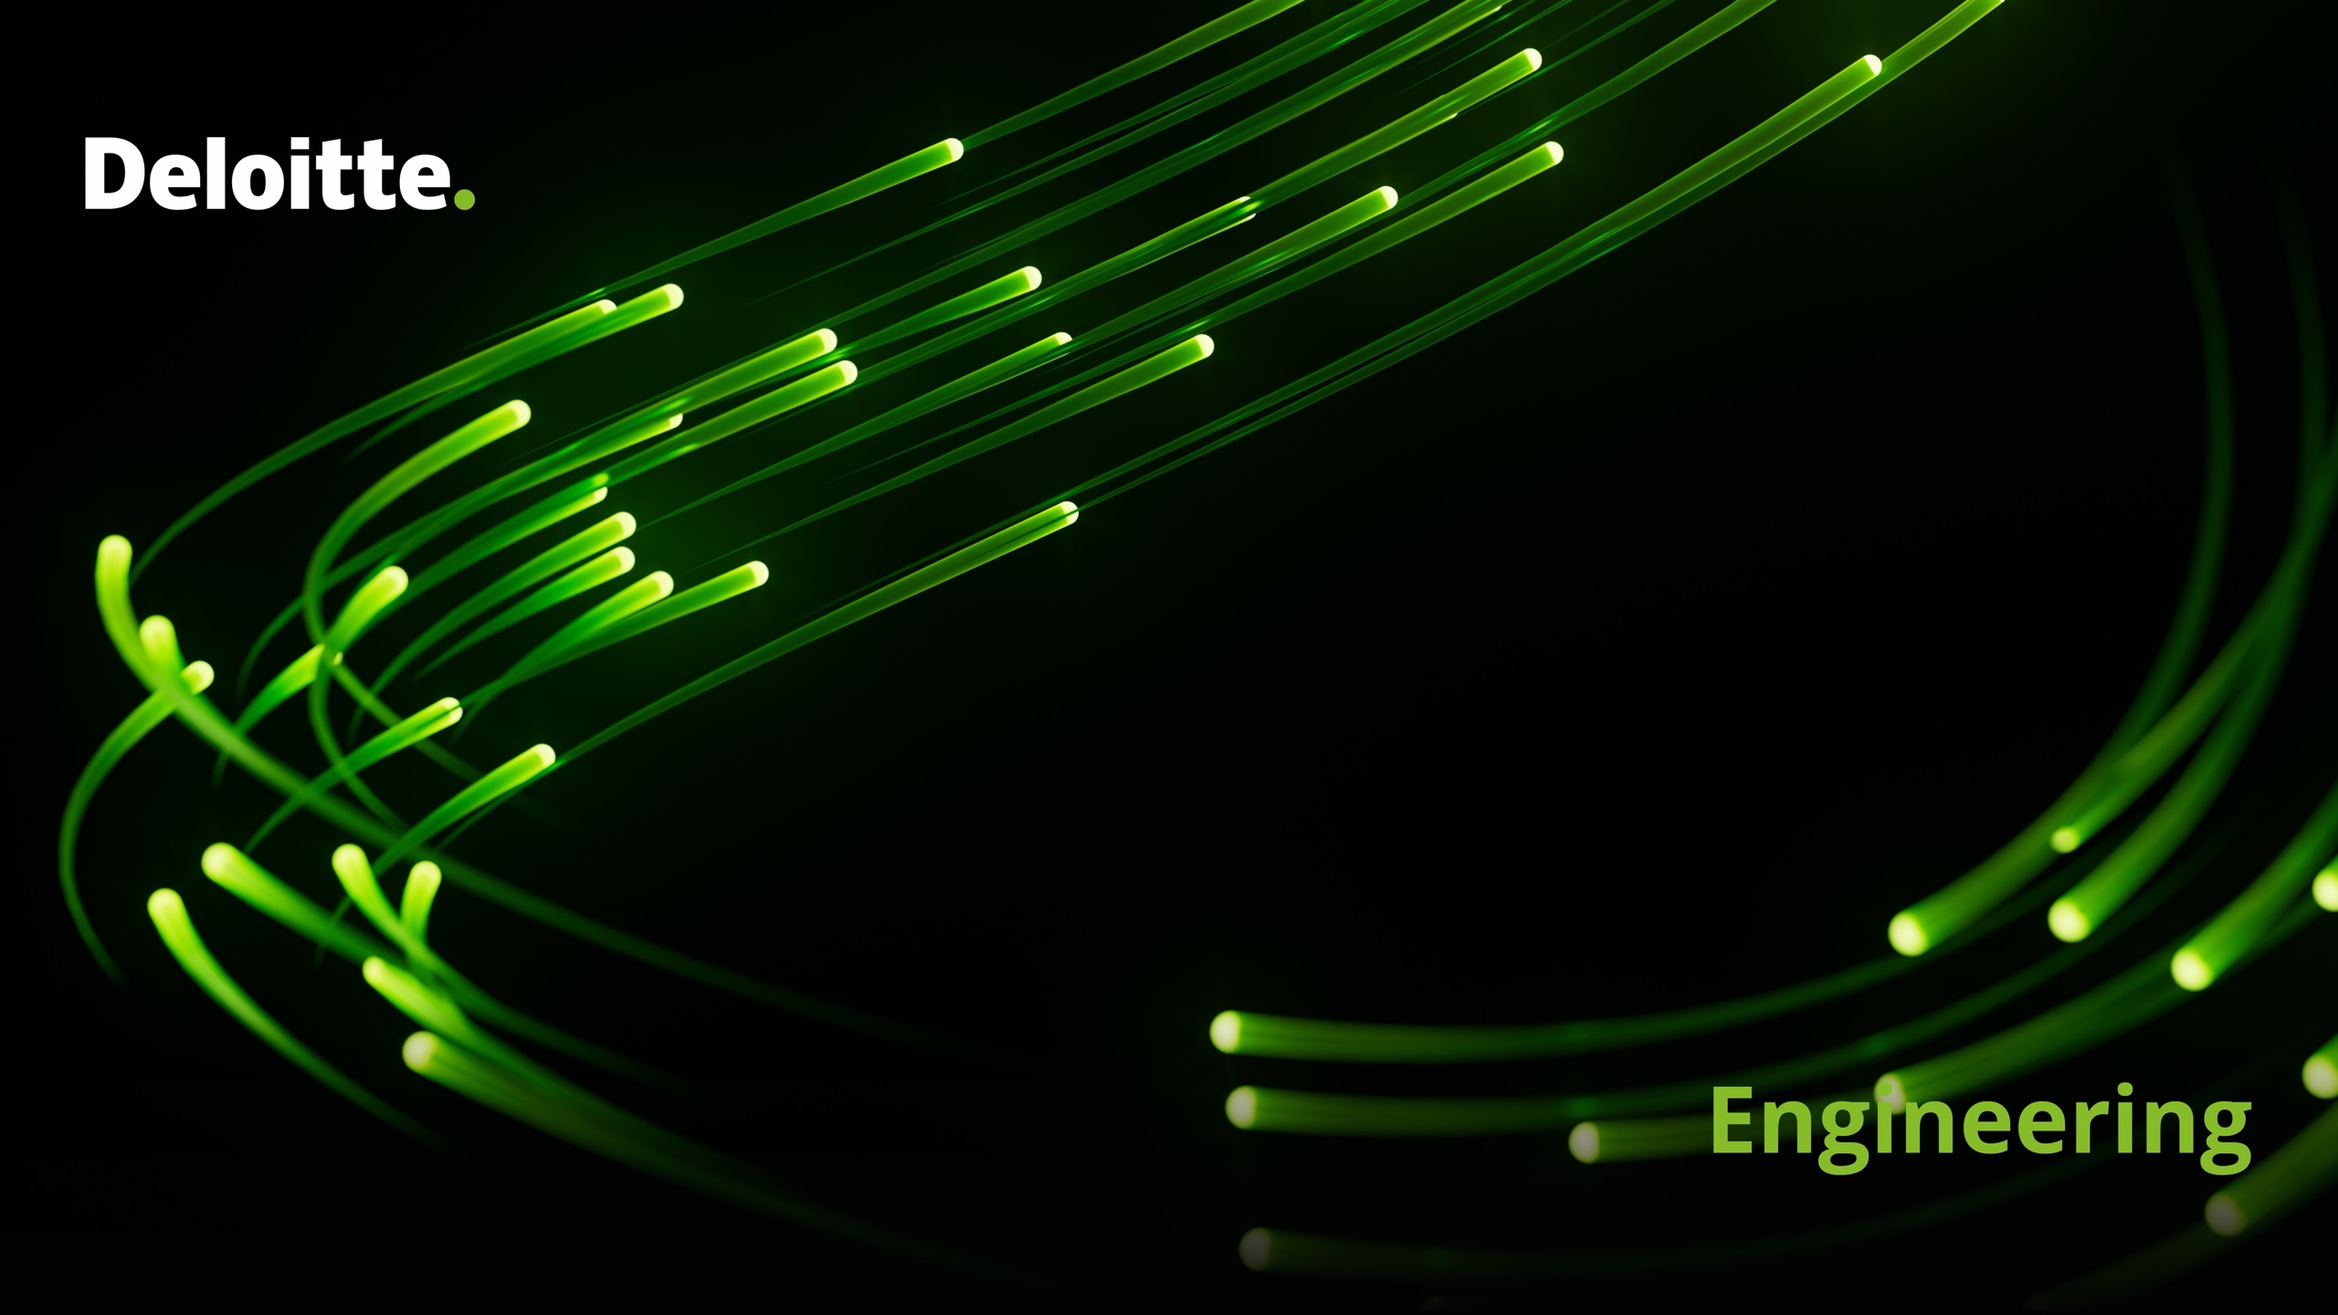
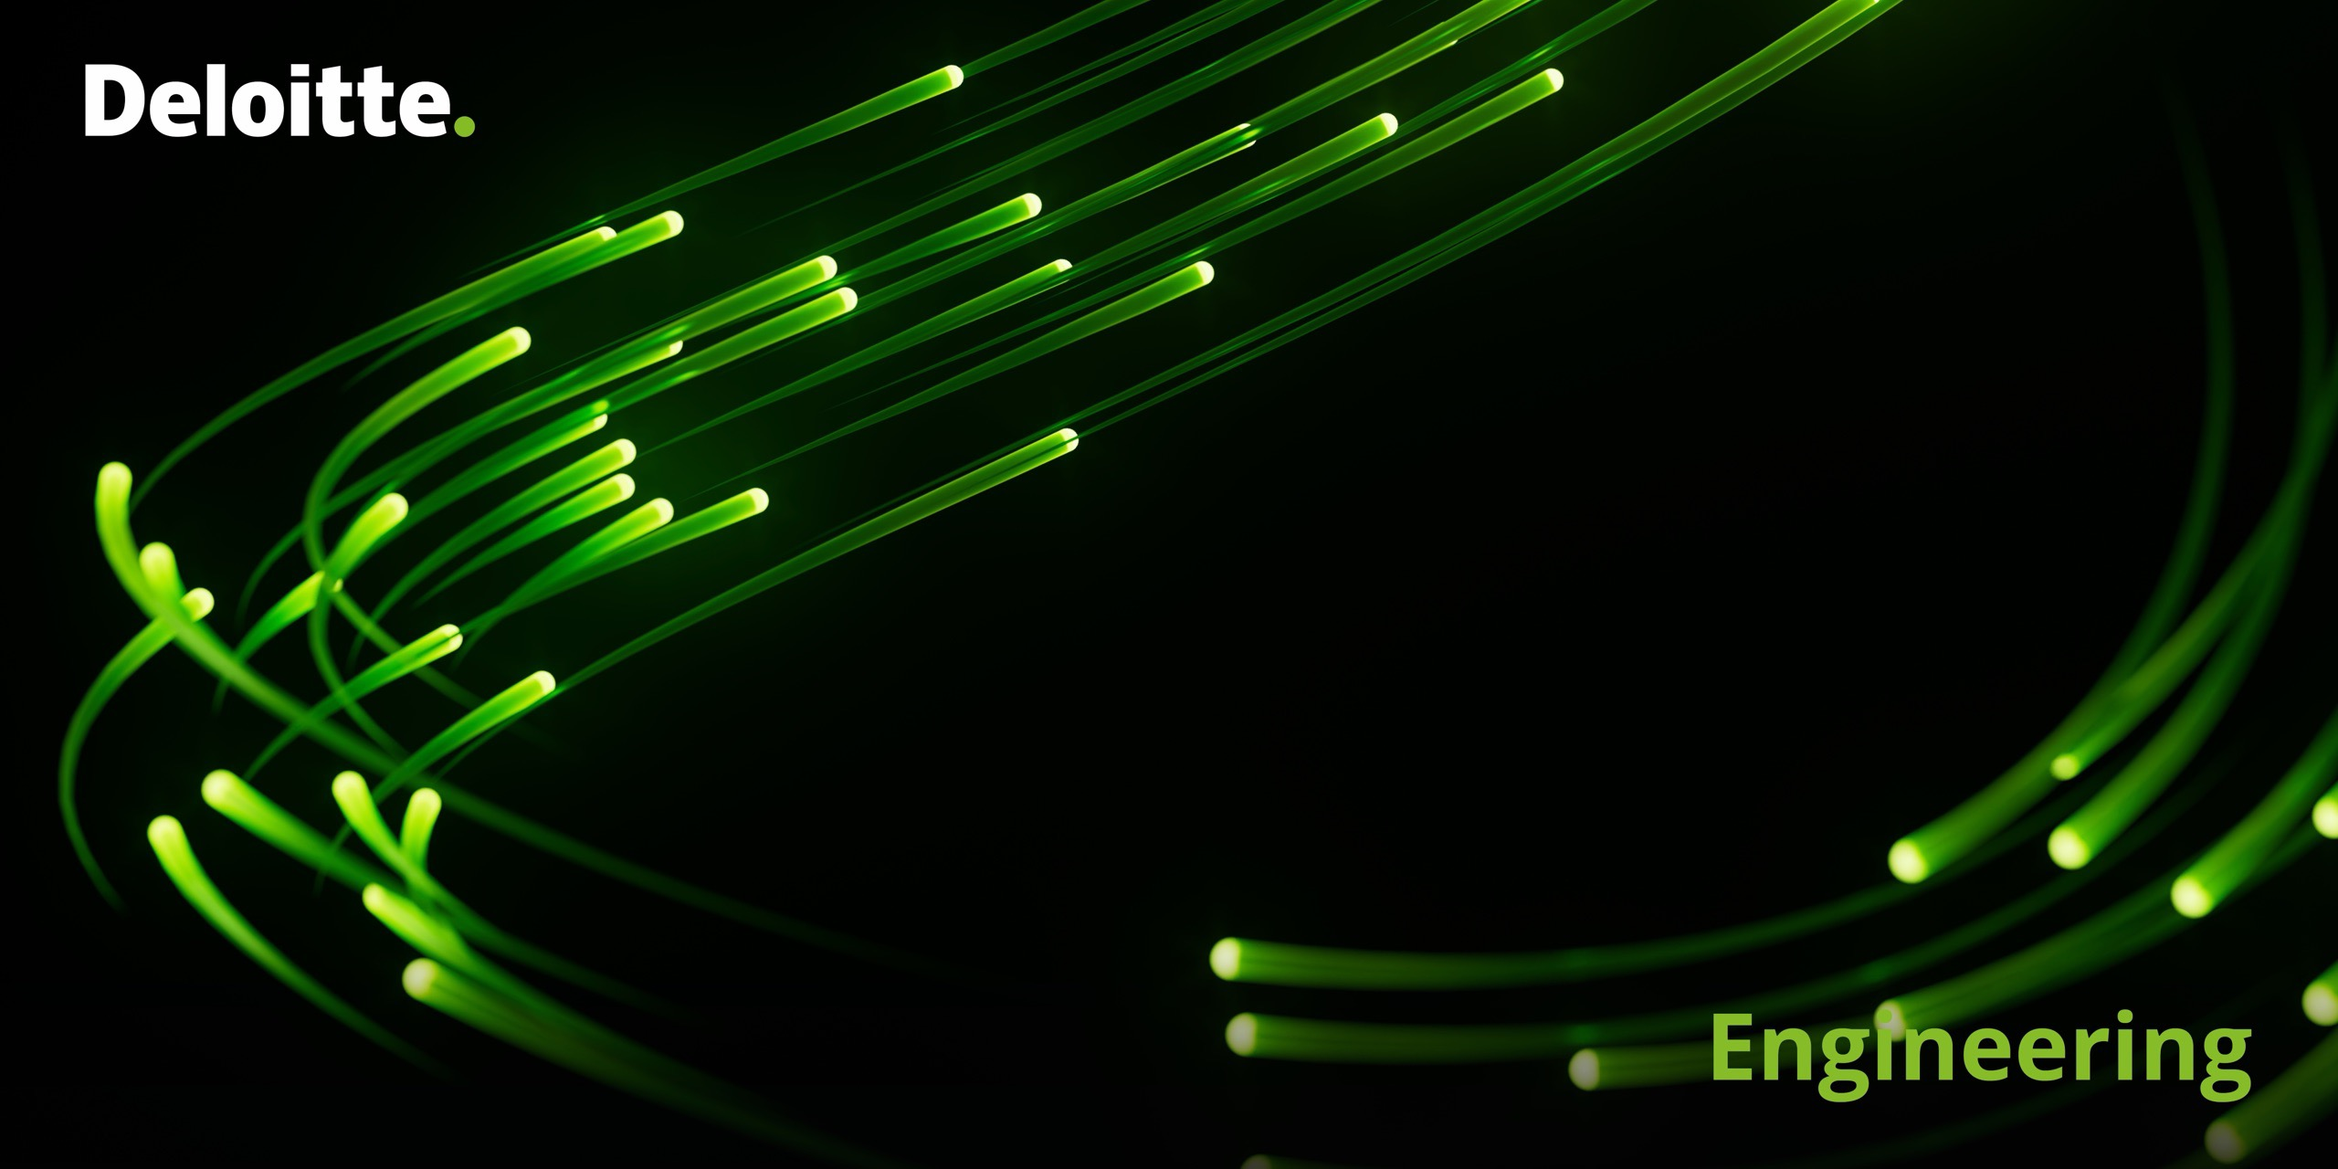
Sharpen the FoSWE diagram, label experiments A to C, hide slide numbers

diff --git a/presentation/index.html b/presentation/index.html
@@ -10,17 +10,19 @@
 <link rel="stylesheet" href="vendor/reveal.js/theme/black.css">
 <link rel="stylesheet" href="vendor/reveal.js/plugin/highlight/monokai.css">
 <style>
-  /* contain, not cover: the logo and "Engineering" sit near the image edges, and the image's black edges hide any letterbox. */
-  .reveal-viewport { background: #000 url("backgrounds/eng-background-3.jpg") center / contain no-repeat; }
+  /* Stretched to fill, not cover: the logo and "Engineering" sit near the image edges and cover would clip them. */
+  .reveal-viewport { background: #000 url("backgrounds/eng-background-3.jpg") center / 100% 100% no-repeat; }
   /* Every slide is the same dark panel, sized to sit between the logo (top) and "Engineering" (bottom) so text stays readable over the streaks. reveal.js centres it vertically. */
   .reveal .slides section:not(.stack) {
-    box-sizing: border-box; width: 1100px; height: 450px; left: 90px; padding: 20px 50px;
+    box-sizing: border-box; width: 1160px; height: 500px; left: 60px; padding: 20px 50px;
     background: rgba(0, 0, 0, 0.8); border: 1px solid rgba(134, 188, 37, 0.4); border-radius: 16px;
   }
   /* reveal.js sets display inline from its display option, so centre the content with flex. */
   .reveal .slides section:not(.stack) { flex-direction: column; justify-content: center; align-items: center; }
   /* Images fill whatever height the panel has left. */
   .reveal .slides section img { flex: 0 1 auto; min-height: 0; max-height: none; margin: 10px 0; object-fit: contain; }
+  /* Fills the panel height, leaving just the panel's 20px padding above and below. */
+  .reveal .slides section img.full { height: 100%; margin: 0; }
   .reveal { --r-link-color: #86bc25; --r-link-color-hover: #a6d84a; }
   .reveal p.quote { font-size: 0.6em; margin: 12px 0; }
   .reveal p.quote cite { font-size: 0.8em; font-style: normal; color: #86bc25; }
@@ -86,7 +88,7 @@
 <section>
   <h2>Agenda</h2>
   <ul>
-    <li>Unlearning in the AI era</li>
+    <li>Unlearn</li>
     <li>Evals</li>
     <li>Walk-through</li>
     <li>Start unlearning</li>
@@ -100,10 +102,10 @@
   </aside>
 </section>
 
-<!-- 1. Unlearning in the AI era (1:00–9:00) -->
+<!-- 1. Unlearn (1:00–9:00) -->
 
 <section class="separator">
-  <h2>Unlearning in the AI era</h2>
+  <h2>Unlearn</h2>
   <aside class="notes">
     <p>This section shows why the workarounds we wrote for older models are so hard to let go.</p>
     <p>Citations: none.</p>
@@ -131,20 +133,24 @@
 </section>
 
 <section>
-  <h2>Where scaffolding lives</h2>
-  <ul>
-    <li>Your fingers</li>
-    <li>Your memory files</li>
-    <li>Your system prompts</li>
-  </ul>
+  <div class="book">
+    <img src="images/thinking-fast-and-slow.jpg" alt="Cover of Thinking, Fast and Slow by Daniel Kahneman.">
+    <div>
+      <ul>
+        <li><strong>System 1</strong><br>fast, automatic, unconscious, emotional</li>
+        <li><strong>System 2</strong><br>slow, effortful, conscious, logical</li>
+      </ul>
+    </div>
+  </div>
   <aside class="notes">
-    <p>Habits in your fingers outlive the rules that created them.</p>
-    <p>Memory files keep old rules alive, like my em-dash ban that survives in copies.</p>
-    <p>System prompts carry old scaffolding too: Anthropic cut over 80% of Claude Code's, but only after its evals showed no loss.</p>
+    <p>Daniel Kahneman's 2011 book splits thinking into two systems.</p>
+    <p>System 1 runs fast and automatically below awareness, driven by feeling, and it is where practised habits live.</p>
+    <p>System 2 is slow, effortful, conscious and logical, and it is the one that actually checks.</p>
     <p>Citations:</p>
     <ul>
-      <li>"Your memory files": my own memory and prompt files still hold an em-dash ban removed from CLAUDE.md in Aug 2026.</li>
-      <li>"Your system prompts", "over 80%" (spoken): Shihipar, T., "The new rules of context engineering for Claude 5 generation models", Anthropic, 24 Jul 2026 ("We removed over 80% of Claude Code’s system prompt for models like Claude Opus 5 and Claude Fable 5 with no measurable loss on our coding evaluations."). <a href="https://claude.dev/blog/the-new-rules-of-context-engineering-for-claude-5-generation-models/">claude.dev</a></li>
+      <li>Book cover: "Thinking, Fast and Slow", Wikipedia ("Thinking, Fast and Slow is a 2011 popular science book by the Israeli-American psychologist Daniel Kahneman."). <a href="https://en.wikipedia.org/wiki/Thinking,_Fast_and_Slow">wikipedia.org</a></li>
+      <li>"System 1: fast, automatic, unconscious, emotional": same Wikipedia page ("Fast, automatic, frequent, emotional, stereotypic, unconscious").</li>
+      <li>"System 2: slow, effortful, conscious, logical": same Wikipedia page ("Slow, effortful, infrequent, logical, calculating, conscious").</li>
     </ul>
   </aside>
 </section>
@@ -179,24 +185,20 @@
 </section>
 
 <section>
-  <div class="book">
-    <img src="images/thinking-fast-and-slow.jpg" alt="Cover of Thinking, Fast and Slow by Daniel Kahneman.">
-    <div>
-      <ul>
-        <li><strong>System 1</strong><br>fast, automatic, unconscious, emotional</li>
-        <li><strong>System 2</strong><br>slow, effortful, conscious, logical</li>
-      </ul>
-    </div>
-  </div>
+  <h2>Where scaffolding lives</h2>
+  <ul>
+    <li>Your fingers</li>
+    <li>Your memory files</li>
+    <li>Your system prompts</li>
+  </ul>
   <aside class="notes">
-    <p>Daniel Kahneman's 2011 book splits thinking into two systems.</p>
-    <p>System 1 runs fast and automatically below awareness, driven by feeling, and it is where practised habits live.</p>
-    <p>System 2 is slow, effortful, conscious and logical, and it is the one that actually checks.</p>
+    <p>Habits in your fingers outlive the rules that created them.</p>
+    <p>Memory files keep old rules alive, like my em-dash ban that survives in copies.</p>
+    <p>System prompts carry old scaffolding too: Anthropic cut over 80% of Claude Code's, but only after its evals showed no loss.</p>
     <p>Citations:</p>
     <ul>
-      <li>Book cover: "Thinking, Fast and Slow", Wikipedia ("Thinking, Fast and Slow is a 2011 popular science book by the Israeli-American psychologist Daniel Kahneman."). <a href="https://en.wikipedia.org/wiki/Thinking,_Fast_and_Slow">wikipedia.org</a></li>
-      <li>"System 1: fast, automatic, unconscious, emotional": same Wikipedia page ("Fast, automatic, frequent, emotional, stereotypic, unconscious").</li>
-      <li>"System 2: slow, effortful, conscious, logical": same Wikipedia page ("Slow, effortful, infrequent, logical, calculating, conscious").</li>
+      <li>"Your memory files": my own memory and prompt files still hold an em-dash ban removed from CLAUDE.md in Aug 2026.</li>
+      <li>"Your system prompts", "over 80%" (spoken): Shihipar, T., "The new rules of context engineering for Claude 5 generation models", Anthropic, 24 Jul 2026 ("We removed over 80% of Claude Code’s system prompt for models like Claude Opus 5 and Claude Fable 5 with no measurable loss on our coding evaluations."). <a href="https://claude.dev/blog/the-new-rules-of-context-engineering-for-claude-5-generation-models/">claude.dev</a></li>
     </ul>
   </aside>
 </section>
@@ -234,24 +236,6 @@
 </section>
 
 <section>
-  <h2>Anatomy of an eval</h2>
-  <img src="diagrams/eval-anatomy.svg" alt="A dataset of cases, each with input and ground truth, flows into a config (model, effort, system prompt), which produces one output per case. Judges, one per metric, score the outputs into results: scores, reasons and cost. Config plus outputs is one experiment." style="width: 100%;">
-  <aside class="notes">
-    <p>Each case pairs an input with a ground truth answer.</p>
-    <p>The dataset is the set of cases you rerun on every candidate.</p>
-    <p>The config is the model, effort and system prompt under test.</p>
-    <p>The config produces one output per case, and the config plus its outputs is one experiment.</p>
-    <p>Judges score each output, with one judge per metric.</p>
-    <p>Results hold each score, the judge's reason and the cost, using the STE rule as the running example.</p>
-    <p>Citations:</p>
-    <ul>
-      <li>"Cases… ground truth", "Judges": Husain, H. &amp; Shankar, S., "AI Evals: Everything You Need to Know", 18 Sep 2026. <a href="https://hamel.dev/blog/posts/evals-faq/">hamel.dev</a></li>
-      <li>"Dataset", "Config", "One experiment", "scores · why · cost": the ai-evals skill. <a href="https://github.com/etoews/skills/tree/main/skills/ai-evals">github.com</a></li>
-    </ul>
-  </aside>
-</section>
-
-<section>
   <h2>Evals turn weeks into days</h2>
   <ul>
     <li>Weeks → days</li>
@@ -267,6 +251,24 @@
       <li>"Weeks → days": Anthropic, "Demystifying evals for AI agents", 9 Jan 2026 ("When more powerful models come out, teams without evals face weeks of testing while competitors with evals can quickly determine the model’s strengths, tune their prompts, and upgrade in days."). <a href="https://www.anthropic.com/engineering/demystifying-evals-for-ai-agents">anthropic.com</a></li>
       <li>"Anthropic: evals first": Shihipar, 24 Jul 2026 ("with no measurable loss on our coding evaluations"). <a href="https://claude.dev/blog/the-new-rules-of-context-engineering-for-claude-5-generation-models/">claude.dev</a></li>
       <li>"Free baselines and regression tests": same Anthropic post ("Once evals exist, you get baselines and regression tests for free"). <a href="https://www.anthropic.com/engineering/demystifying-evals-for-ai-agents">anthropic.com</a></li>
+    </ul>
+  </aside>
+</section>
+
+<section>
+  <h2>Anatomy of an eval</h2>
+  <img src="diagrams/eval-anatomy.svg" alt="A dataset of cases, each with input and ground truth, flows into a config (model, effort, system prompt), which produces one output per case. Judges, one per metric, score the outputs into results: scores, reasons and cost. Config plus outputs is one experiment." style="width: 100%;">
+  <aside class="notes">
+    <p>Each case pairs an input with a ground truth answer.</p>
+    <p>The dataset is the set of cases you rerun on every candidate.</p>
+    <p>The config is the model, effort and system prompt under test.</p>
+    <p>The config produces one output per case, and the config plus its outputs is one experiment.</p>
+    <p>Judges score each output, with one judge per metric.</p>
+    <p>Results hold each score, the judge's reason and the cost, using the STE rule as the running example.</p>
+    <p>Citations:</p>
+    <ul>
+      <li>"Cases… ground truth", "Judges": Husain, H. &amp; Shankar, S., "AI Evals: Everything You Need to Know", 18 Sep 2026. <a href="https://hamel.dev/blog/posts/evals-faq/">hamel.dev</a></li>
+      <li>"Dataset", "Config", "One experiment", "scores · why · cost": the ai-evals skill. <a href="https://github.com/etoews/skills/tree/main/skills/ai-evals">github.com</a></li>
     </ul>
   </aside>
 </section>
@@ -346,18 +348,13 @@
 </section>
 
 <section>
-  <h2>The unlearning experiment</h2>
-  <img src="diagrams/unlearning-experiment.svg" alt="The same cases run through three experiments: baseline (old model plus scaffolding), candidate (new model plus scaffolding) and deleted (new model, scaffolding removed). Comparing them leads to keep, upsert or unlearn." style="width: 100%;">
+  <img class="full" src="diagrams/FoSWE.drawio.png" alt="The Future of Software Engineering: roles from BA to Ops, with Gen AI between each stage from domain and requirements through plan, spec and design, then verify and eval, to deploy, debug and operate. A context and harness loop wraps the build stage, with build-time evals under it and run-time evals under the whole flow.">
   <aside class="notes">
-    <p>The same cases run through all three experiments.</p>
-    <p>The baseline is the old model with your scaffolding.</p>
-    <p>The candidate is the new model with your scaffolding.</p>
-    <p>The deleted experiment is the new model with the scaffolding removed, which Boris Cherny calls an ablation: an eval where you delete things.</p>
-    <p>Comparing the experiments tells you whether to keep the scaffolding, upsert it by rewriting it or adding something new, or unlearn it.</p>
-    <p>Citations:</p>
-    <ul>
-      <li>"Deleted": Cherny, B., "Boris Cherny: Building Claude Code", Root Access transcript of Y Combinator Startup School, 27 Jul 2026 ("The ablation is essentially an eval, but you delete things to figure out the impact."). <a href="https://www.ycrootaccess.com/p/boris-cherny-building-claude-code">transcript</a> · <a href="https://www.youtube.com/watch?v=qyPCVqFUyDo">YouTube</a></li>
-    </ul>
+    <p>The future of software engineering is a chain of stages from domain and requirements through to operate, and the roles from BA to Ops sit above it.</p>
+    <p>Gen AI sits between each pair of stages, and the context and harness wrap the build stage.</p>
+    <p>The dashed outer loop and the circular arrows show the work repeating rather than running once.</p>
+    <p>Build-time evals cover the middle of the flow, and run-time evals cover the whole of it.</p>
+    <p>Citations: none, this is my own diagram.</p>
   </aside>
 </section>
 
@@ -394,21 +391,38 @@
 </section>
 
 <section>
+  <h2>The unlearning experiment</h2>
+  <img src="diagrams/unlearning-experiment.svg" alt="The same cases run through three experiments: baseline (old model plus scaffolding), candidate (new model plus scaffolding) and delete (new model, scaffolding removed). Comparing them leads to keep, update or unlearn." style="width: 100%;">
+  <aside class="notes">
+    <p>The same cases run through all three experiments.</p>
+    <p>The baseline is the old model with your scaffolding.</p>
+    <p>The candidate is the new model with your scaffolding.</p>
+    <p>The delete experiment is the new model with the scaffolding removed, which Boris Cherny calls an ablation: an eval where you delete things.</p>
+    <p>The cases are the dataset, the three boxes are the experiments, the judges and results sit in the compare step, and the outcome is the action you take.</p>
+    <p>Comparing the experiments tells you whether to keep the scaffolding, update it by rewriting it or adding something new, or unlearn it.</p>
+    <p>Citations:</p>
+    <ul>
+      <li>"Delete": Cherny, B., "Boris Cherny: Building Claude Code", Root Access transcript of Y Combinator Startup School, 27 Jul 2026 ("The ablation is essentially an eval, but you delete things to figure out the impact."). <a href="https://www.ycrootaccess.com/p/boris-cherny-building-claude-code">transcript</a> · <a href="https://www.youtube.com/watch?v=qyPCVqFUyDo">YouTube</a></li>
+    </ul>
+  </aside>
+</section>
+
+<section>
   <h2>Should STE stay?</h2>
   <ul>
+    <li>Dataset: 3 docs tasks</li>
     <li>Experiment A: Opus 5 + STE</li>
     <li>Experiment B: Opus 5.5 + STE</li>
     <li>Experiment C: Opus 5.5, no STE</li>
-    <li>Dataset 3: docs tasks</li>
   </ul>
   <aside class="notes">
+    <p>The three docs tasks are a procedure, a concept page and a troubleshooting entry for a fictional platform, scored by three judges and a pinned STE style judge over three repetitions.</p>
     <p>Experiment A, Opus 5 with STE, is the world I wrote the rule for.</p>
     <p>Experiment B, Opus 5.5 with STE, tests whether the rule still helps the new model.</p>
     <p>Experiment C, Opus 5.5 without STE, is what I chose by vibe.</p>
-    <p>The three docs tasks are a procedure, a concept page and a troubleshooting entry for a fictional platform, scored by three judges and a pinned STE style judge over three repetitions.</p>
     <p>Citations:</p>
     <ul>
-      <li>"Experiment A", "Experiment B", "Experiment C", "Dataset 3": my own dataset and experiments, run with the ai-evals skill. <a href="https://github.com/etoews/unlearn/tree/main/evals/ste">github.com/etoews/unlearn</a> · <a href="https://github.com/etoews/skills/tree/main/skills/ai-evals">ai-evals skill</a></li>
+      <li>"Dataset: 3 docs tasks", "Experiment A", "Experiment B", "Experiment C": my own dataset and experiments, run with the ai-evals skill. <a href="https://github.com/etoews/unlearn/tree/main/evals/ste">github.com/etoews/unlearn</a> · <a href="https://github.com/etoews/skills/tree/main/skills/ai-evals">ai-evals skill</a></li>
     </ul>
   </aside>
 </section>
@@ -486,7 +500,7 @@
 
 <section>
   <h2>Verdict</h2>
-  <p class="decisions">Keep · Upsert · <strong>Unlearn</strong></p>
+  <p class="decisions">Keep · Update · <strong>Unlearn</strong></p>
   <div class="evidence">
     <span class="num fragment" data-fragment-index="0">2/9</span><span class="fragment" data-fragment-index="1">writing_ste passes on Opus 5.5, no STE</span>
     <span class="num fragment" data-fragment-index="0">0</span><span class="fragment" data-fragment-index="2">change in facts</span>
@@ -600,7 +614,8 @@
     width: 1280,
     height: 720,
     display: 'flex',
-    slideNumber: 'c/t',
+    controls: false,
+    slideNumber: false,
     plugins: [RevealNotes, RevealHighlight, RevealZoom, RevealSearch]
   });
 </script>
